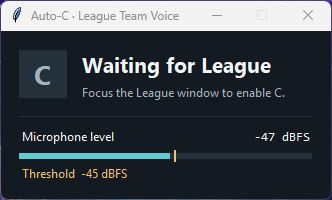
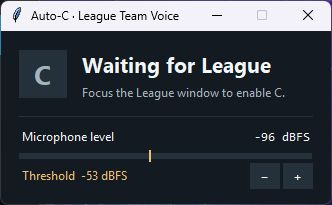
Adjust the live voice threshold from the mini display

diff --git a/mini_display.py b/mini_display.py
@@ -5,6 +5,7 @@ import tkinter as tk
 
 from auto_c import listen
 from monitor_position import place_window
+from threshold_settings import MAX_THRESHOLD, MIN_THRESHOLD, save_threshold
 
 
 BG = "#141a21"
@@ -64,8 +65,52 @@ def run_display(args):
     track = meter.create_rectangle(0, 4, 1, 10, fill=PANEL, outline="")
     bar = meter.create_rectangle(0, 4, 0, 10, fill=METER, outline="")
     marker = meter.create_line(0, 1, 0, 13, width=2, fill=THRESHOLD)
-    tk.Label(body, text=f"Threshold  {args.threshold:g} dBFS", bg=BG, fg=THRESHOLD,
-             font=("Segoe UI", 9), anchor="w").pack(fill="x")
+    controls = tk.Frame(body, bg=BG)
+    controls.pack(fill="x")
+    threshold_label = tk.Label(controls, bg=BG, fg=THRESHOLD, font=("Segoe UI", 9), anchor="w")
+    threshold_label.pack(side="left", fill="x", expand=True)
+    save_error = tk.Label(body, bg=BG, fg=THRESHOLD, font=("Segoe UI", 9), anchor="w",
+                          text="Change applied. Couldn’t save the setting.")
+
+    threshold = args.threshold
+    threshold_lock = threading.Lock()
+
+    def get_threshold():
+        with threshold_lock:
+            return threshold
+
+    def draw_marker():
+        width = max(1, meter.winfo_width() - 1)
+        fraction = (threshold - MIN_THRESHOLD) / (MAX_THRESHOLD - MIN_THRESHOLD)
+        threshold_x = min(width - 1, max(1, width * fraction))
+        meter.coords(marker, threshold_x, 1, threshold_x, 13)
+
+    def show_threshold():
+        threshold_label.configure(text=f"Threshold  {threshold:g} dBFS")
+        lower.configure(state="normal" if threshold > MIN_THRESHOLD else "disabled")
+        raise_button.configure(state="normal" if threshold < MAX_THRESHOLD else "disabled")
+        draw_marker()
+
+    def adjust_threshold(step):
+        nonlocal threshold
+        with threshold_lock:
+            threshold = max(MIN_THRESHOLD, min(MAX_THRESHOLD, threshold + step))
+        show_threshold()
+        try:
+            save_threshold(threshold)
+        except OSError:
+            save_error.pack(fill="x", pady=(4, 0))
+        else:
+            save_error.pack_forget()
+
+    button_style = dict(bg=PANEL, fg=TEXT, activebackground="#344451", activeforeground=TEXT,
+                        disabledforeground="#72818a", highlightcolor=THRESHOLD,
+                        highlightbackground=BG, highlightthickness=1, relief="flat", borderwidth=0,
+                        takefocus=True, width=3, font=("Segoe UI", 10, "bold"))
+    lower = tk.Button(controls, text="−", command=lambda: adjust_threshold(-1), **button_style)
+    lower.pack(side="left", padx=(0, 3))
+    raise_button = tk.Button(controls, text="+", command=lambda: adjust_threshold(1), **button_style)
+    raise_button.pack(side="left")
 
     def show_state(state):
         headline, subtitle, background, ink = STATES[state]
@@ -78,13 +123,13 @@ def run_display(args):
     def draw_level(level):
         width = max(1, meter.winfo_width() - 1)
         # Map the full configurable -96..0 dBFS scale to the meter.
-        threshold_x = min(width - 1, max(1, width * (args.threshold + 96) / 96))
         fill = 0 if level is None else width * min(1, max(0, (level + 96) / 96))
         meter.coords(track, 0, 4, width, 10)
         meter.coords(bar, 0, 4, fill, 10)
-        meter.coords(marker, threshold_x, 1, threshold_x, 13)
         reading.configure(text="— dBFS" if level is None else f"{max(-96, level):.0f} dBFS")
 
+    show_threshold()
+    meter.bind("<Configure>", lambda event: draw_marker())
     show_state("starting")
     root.update_idletasks()
     root.minsize(root.winfo_reqwidth(), root.winfo_reqheight())
@@ -104,7 +149,7 @@ def run_display(args):
     def capture():
         nonlocal failure
         try:
-            listen(args, stop.is_set, on_status=on_status)
+            listen(args, stop.is_set, on_status=on_status, get_threshold=get_threshold)
         except Exception as error:
             failure = str(error) or type(error).__name__
 
@@ -119,6 +164,8 @@ def run_display(args):
                 root.destroy()
             else:
                 show_state("error")
+                lower.configure(state="disabled")
+                raise_button.configure(state="disabled")
                 detail.configure(text=failure, wraplength=max(160, copy.winfo_width()), justify="left")
                 draw_level(None)
                 root.protocol("WM_DELETE_WINDOW", root.destroy)

diff --git a/auto_c.py b/auto_c.py
@@ -11,6 +11,7 @@ from contextlib import nullcontext
 import sounddevice as sd
 import webrtcvad
 
+from threshold_settings import DEFAULT_THRESHOLD, MAX_THRESHOLD, MIN_THRESHOLD, load_threshold
 from win_ptt import LeagueKey, live_session
 
 
@@ -27,10 +28,15 @@ def decibels(power):
 
 
 class VoiceGate:
-    def __init__(self, threshold_db=-45.0, release_ms=300):
-        self.min_power = (32768 * 10 ** (threshold_db / 20)) ** 2
+    def __init__(self, threshold_db=DEFAULT_THRESHOLD, release_ms=300):
         self.release_ms = release_ms
         self.reset()
+        self.set_threshold(threshold_db)
+
+    def set_threshold(self, threshold_db):
+        self.threshold_db = threshold_db
+        self.min_power = (32768 * 10 ** (threshold_db / 20)) ** 2
+        self.speech_frames = 0
 
     def reset(self):
         self.vad = webrtcvad.Vad(2)
@@ -65,7 +71,7 @@ def capture_rate(device):
     raise ValueError("Microphone needs mono PCM at 8, 16, 32, or 48 kHz. Try --list-devices.")
 
 
-def listen(args, stopping, on_status=None):
+def listen(args, stopping, on_status=None, get_threshold=None):
     mic = sd.query_devices(args.device, "input")
     rate = capture_rate(mic["index"])
     key = None if args.dry_run else LeagueKey()
@@ -117,6 +123,10 @@ def listen(args, stopping, on_status=None):
                     talking = False
                     power = frame_power(frame) if on_status and frame is not None else 0.0
                 else:
+                    if get_threshold is not None:
+                        threshold_db = get_threshold()
+                        if threshold_db != gate.threshold_db:
+                            gate.set_threshold(threshold_db)
                     talking = gate.update(frame, rate)
                     power = gate.power
 
@@ -147,12 +157,14 @@ def main():
     parser = argparse.ArgumentParser(description=__doc__)
     parser.add_argument("--display", action="store_true", help="open the mini microphone display")
     parser.add_argument("--dry-run", action="store_true", help="show mic levels and C transitions without sending keys")
-    parser.add_argument("--threshold", type=float, default=-45, metavar="DBFS",
-                        help="minimum speech level, from -96 to 0 dBFS (default -45)")
+    parser.add_argument("--threshold", type=float, metavar="DBFS",
+                        help="initial speech threshold from -96 to 0 dBFS (default: saved setting or -45)")
     parser.add_argument("--list-devices", action="store_true", help="show microphone IDs and exit")
     parser.add_argument("--device", type=int, metavar="ID", help="microphone ID (default: Windows default input)")
     args = parser.parse_args()
-    if not -96 <= args.threshold <= 0:
+    if args.threshold is None:
+        args.threshold = load_threshold()
+    elif not MIN_THRESHOLD <= args.threshold <= MAX_THRESHOLD:
         parser.error("--threshold must be between -96 and 0 dBFS")
 
     # Handle Ctrl+C between frames so it can't interrupt ownership of a key-down.

diff --git a/test_threshold_settings.py b/test_threshold_settings.py
@@ -1,0 +1,51 @@
+import json
+import os
+import unittest
+from pathlib import Path
+from tempfile import TemporaryDirectory
+from unittest.mock import patch
+
+from threshold_settings import DEFAULT_THRESHOLD, load_threshold, save_threshold
+
+
+class ThresholdSettingsTests(unittest.TestCase):
+    def setUp(self):
+        temporary = TemporaryDirectory()
+        self.addCleanup(temporary.cleanup)
+        local = patch.dict(os.environ, {"LOCALAPPDATA": temporary.name})
+        local.start()
+        self.addCleanup(local.stop)
+        self.path = Path(temporary.name) / "Auto-C" / "threshold.json"
+
+    def test_absent_malformed_and_unreadable_default(self):
+        self.assertEqual(load_threshold(), DEFAULT_THRESHOLD)
+        self.path.parent.mkdir()
+        for content in ('{"threshold":', '{}', '[]', '{"threshold": true}', '{"threshold": NaN}',
+                        '{"threshold": 1}', '{"threshold": "-43"}'):
+            with self.subTest(content=content):
+                self.path.write_text(content, encoding="utf-8")
+                self.assertEqual(load_threshold(), DEFAULT_THRESHOLD)
+        with patch.object(Path, "open", side_effect=PermissionError):
+            self.assertEqual(load_threshold(), DEFAULT_THRESHOLD)
+
+    def test_fractional_and_boundary_values_survive_restarts(self):
+        for value in (-96, -37.5, 0):
+            with self.subTest(value=value):
+                save_threshold(value)
+                self.assertEqual(json.loads(self.path.read_text(encoding="utf-8"))["threshold"], value)
+                self.assertIsInstance(load_threshold(), float)
+                self.assertEqual(load_threshold(), value)
+
+    def test_invalid_save_or_failed_replace_preserves_old_value(self):
+        save_threshold(-39)
+        for value in (False, "0", float("nan"), float("inf"), float("-inf"), -97, 1):
+            with self.subTest(value=value), self.assertRaises(ValueError):
+                save_threshold(value)
+        with patch.object(Path, "replace", side_effect=PermissionError), self.assertRaises(PermissionError):
+            save_threshold(-60)
+        self.assertEqual(load_threshold(), -39)
+        self.assertEqual(list(self.path.parent.iterdir()), [self.path])
+
+
+if __name__ == "__main__":
+    unittest.main()

diff --git a/test_monitor_status.py b/test_monitor_status.py
@@ -29,7 +29,7 @@ class FakeKey:
         self.held = down and not (self.refuse_first and self.down_attempts == 1)
 
 
-def replay(audio, key=None):
+def replay(audio, key=None, get_threshold=None):
     """Deliver exactly one PCM frame before each monitor iteration."""
     frames = iter(audio)
     reports = []
@@ -49,7 +49,10 @@ def replay(audio, key=None):
             stream.call_args.kwargs["callback"](frame, SAMPLES, None, False)
             return False
 
-        auto_c.listen(args, stopping, lambda state, dbfs: reports.append((state, dbfs)))
+        auto_c.listen(args, stopping, lambda state, dbfs: reports.append((state, dbfs)),
+                      get_threshold=get_threshold)
+        stream.assert_called_once()
+        stream.return_value.__enter__.assert_called_once_with()
         if args.dry_run:
             create_key.assert_not_called()
     return reports
@@ -70,6 +73,19 @@ class MonitorStatusTests(unittest.TestCase):
         self.assertEqual([state for state, _ in reports], ["ready", "ready", "key_down"])
         self.assertEqual(key.down_attempts, 2)
         self.assertFalse(key.held)
+
+    def test_threshold_changes_while_listening_with_constant_input(self):
+        threshold = -3
+
+        def audio():
+            nonlocal threshold
+            # LOUD stays at -6 dBFS throughout these three threshold settings.
+            for threshold, frames in [(-3, 4), (-15, 2), (-3, 15)]:
+                yield from [LOUD] * frames
+
+        reports = replay(audio(), FakeKey(), get_threshold=lambda: threshold)
+        self.assertEqual([state for state, _ in reports],
+                         ["ready"] * 5 + ["key_down"] * 15 + ["ready"])
 
     def test_dry_run_reports_speech_and_quiet_without_creating_a_key(self):
         reports = replay([LOUD, LOUD] + [SILENCE] * 15)

diff --git a/threshold_settings.py b/threshold_settings.py
@@ -1,0 +1,47 @@
+"""Store Auto-C's microphone threshold for the current Windows user."""
+
+import json
+import os
+from pathlib import Path
+from tempfile import NamedTemporaryFile
+
+
+DEFAULT_THRESHOLD = -45.0
+MIN_THRESHOLD = -96.0
+MAX_THRESHOLD = 0.0
+
+
+def _settings_path():
+    local = os.environ.get("LOCALAPPDATA") or Path.home() / "AppData" / "Local"
+    return Path(local) / "Auto-C" / "threshold.json"
+
+
+def _validated(value):
+    if isinstance(value, bool) or not isinstance(value, (int, float)):
+        raise ValueError("Threshold must be a number in dBFS.")
+    if not MIN_THRESHOLD <= value <= MAX_THRESHOLD:
+        raise ValueError(f"Threshold must be between {MIN_THRESHOLD:g} and {MAX_THRESHOLD:g} dBFS.")
+    return float(value)
+
+
+def load_threshold() -> float:
+    try:
+        with _settings_path().open(encoding="utf-8") as file:
+            return _validated(json.load(file)["threshold"])
+    except (OSError, ValueError, TypeError, KeyError, RecursionError):
+        return DEFAULT_THRESHOLD
+
+
+def save_threshold(value) -> None:
+    threshold = _validated(value)
+    target = _settings_path()
+    target.parent.mkdir(parents=True, exist_ok=True)
+    temporary = None
+    try:
+        with NamedTemporaryFile("w", encoding="utf-8", dir=target.parent, delete=False) as file:
+            temporary = Path(file.name)
+            json.dump({"threshold": threshold}, file)
+        temporary.replace(target)
+    finally:
+        if temporary is not None:
+            temporary.unlink(missing_ok=True)

diff --git a/README.md b/README.md
@@ -18,7 +18,9 @@ The key is enabled only in the foreground match executable, so champion select i
 
 Double-click **Test microphone.cmd**. Speak normally, then pause. The purple **MIC** indicator shows when the detector hears speech. The meter shows the microphone level and the gold marker shows the threshold. Test mode sends no keys.
 
-The default threshold is **−45 dBFS**. If your voice is too quiet to trigger, try **−55**. If background conversation triggers the mic, try **−35**. Run either command from PowerShell in the project folder to open the mini display with your chosen threshold.
+Use **−** to pick up quieter speech or **+** to require a louder voice. Each click moves the gold marker by **1 dB** and changes the active window's trigger immediately. Both the live and test windows remember your last adjustment for the next launch.
+
+The initial threshold is **−45 dBFS**. To start a session at a specific value, pass `--threshold` from PowerShell.
 
 ```powershell
 .\Auto-C.cmd --display --dry-run --threshold -55
